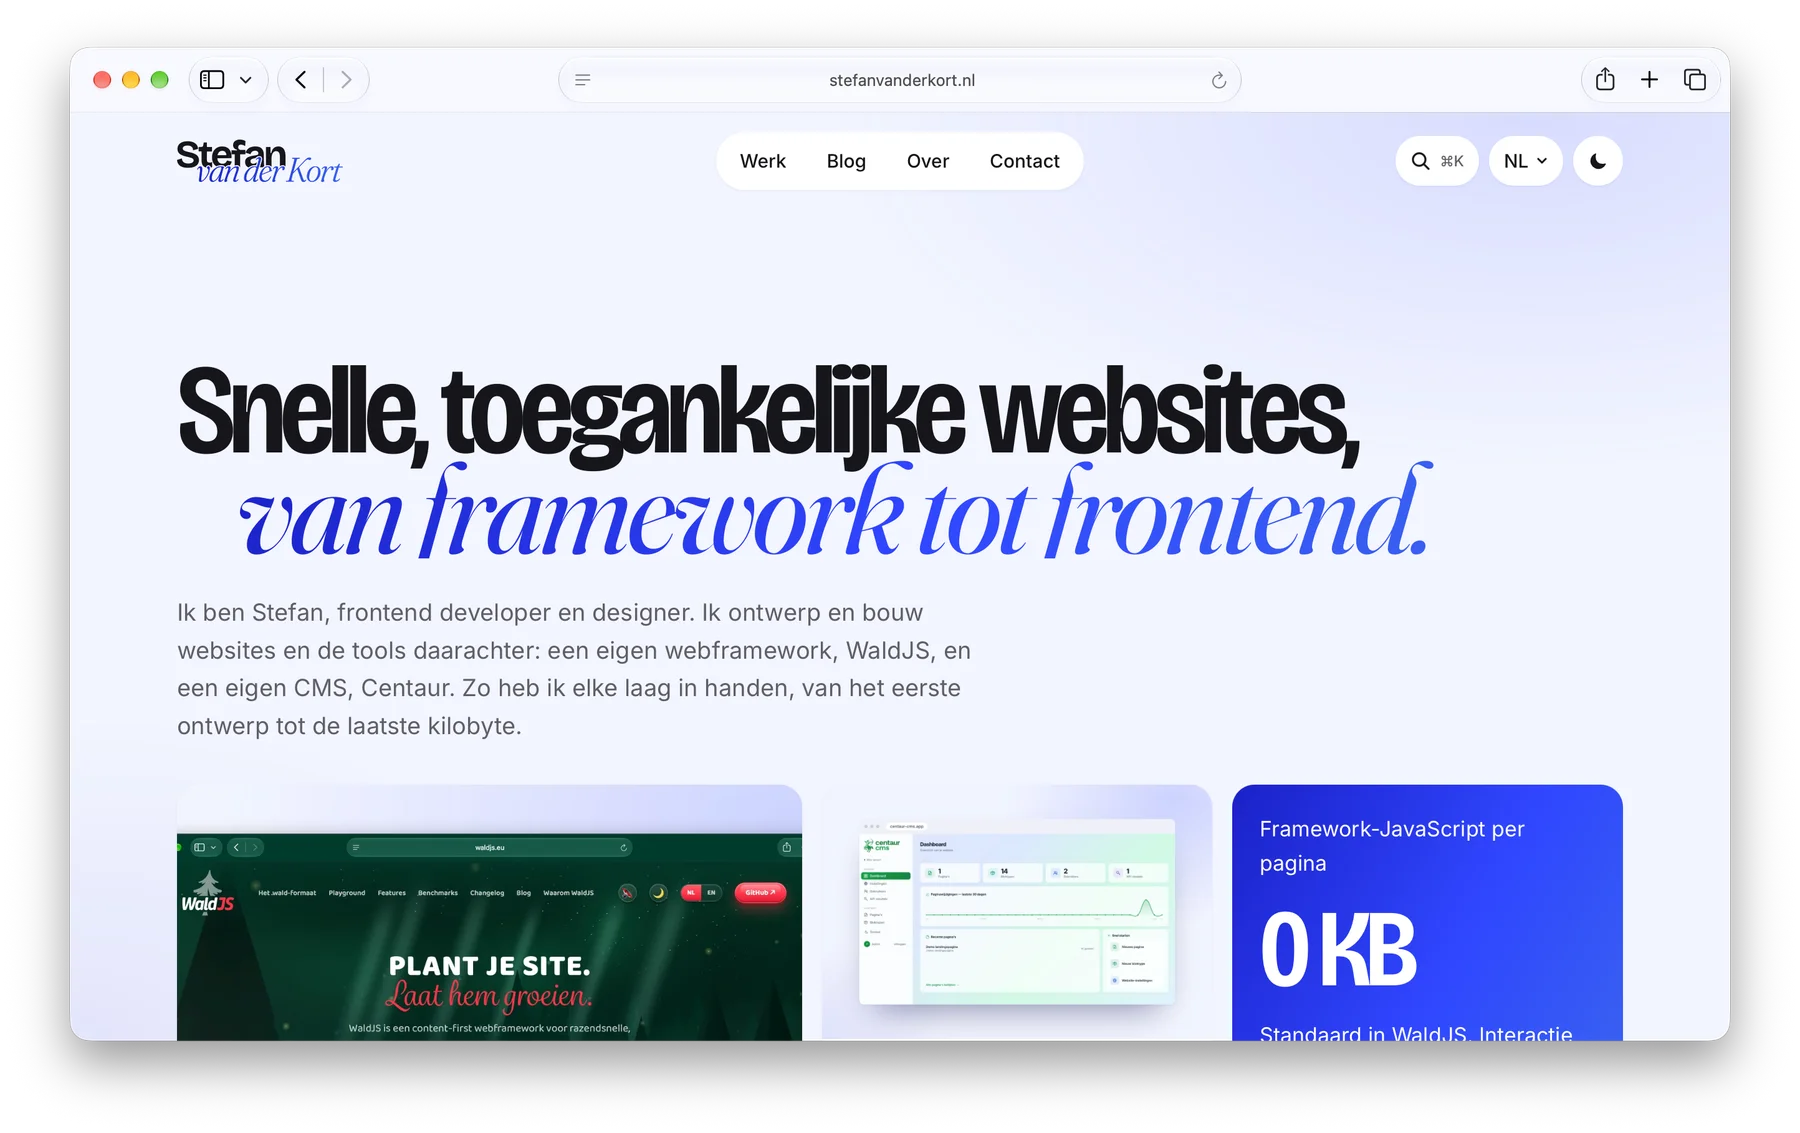
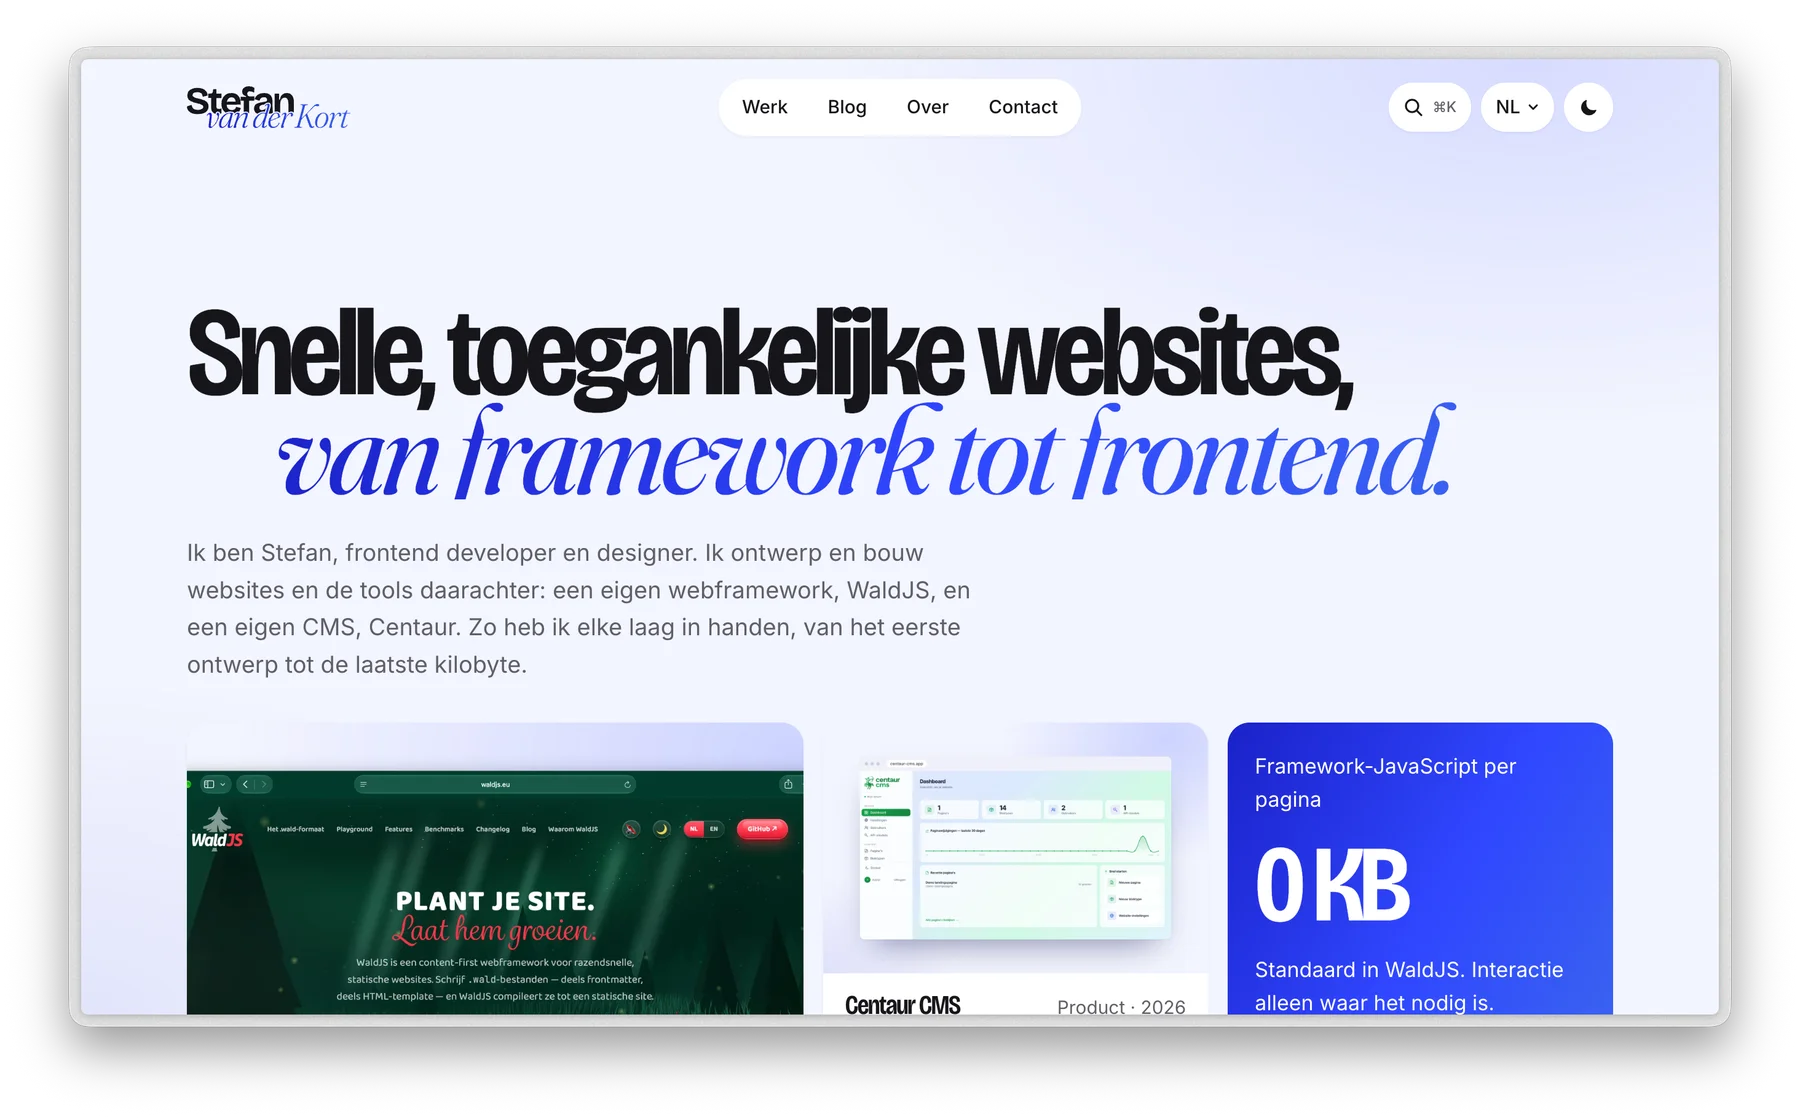
docs: README-afbeelding in Arc in plaats van Safari

Changed region(s): [[0.0311, 0.0304, 0.9644, 0.9428], [0.56, 0.0912, 0.5911, 0.1521], [0.4044, 0.0912, 0.4356, 0.1521]]

diff --git a/README.md b/README.md
@@ -1,6 +1,6 @@
 # Stefan van der Kort, portfolio
 
-![De homepagina van stefanvanderkort.nl in een Safari-venster: de kop "Snelle, toegankelijke websites, van framework tot frontend." met daaronder de projecten WaldJS en Centaur CMS](docs/images/portfolio-2026.webp)
+![De homepagina van stefanvanderkort.nl in een browservenster: de kop "Snelle, toegankelijke websites, van framework tot frontend." met daaronder de projecten WaldJS en Centaur CMS](docs/images/portfolio-2026.webp)
 
 Het portfolio van Stefan van der Kort, frontend developer en designer. De site draait op mijn eigen stack: het webframework [WaldJS](https://waldjs.eu), de content komt uit mijn headless CMS [Centaur](https://centaur-cms.app), en de basislaag is mijn design system [Byzantium](https://byzantium.steefan.nl).
 
